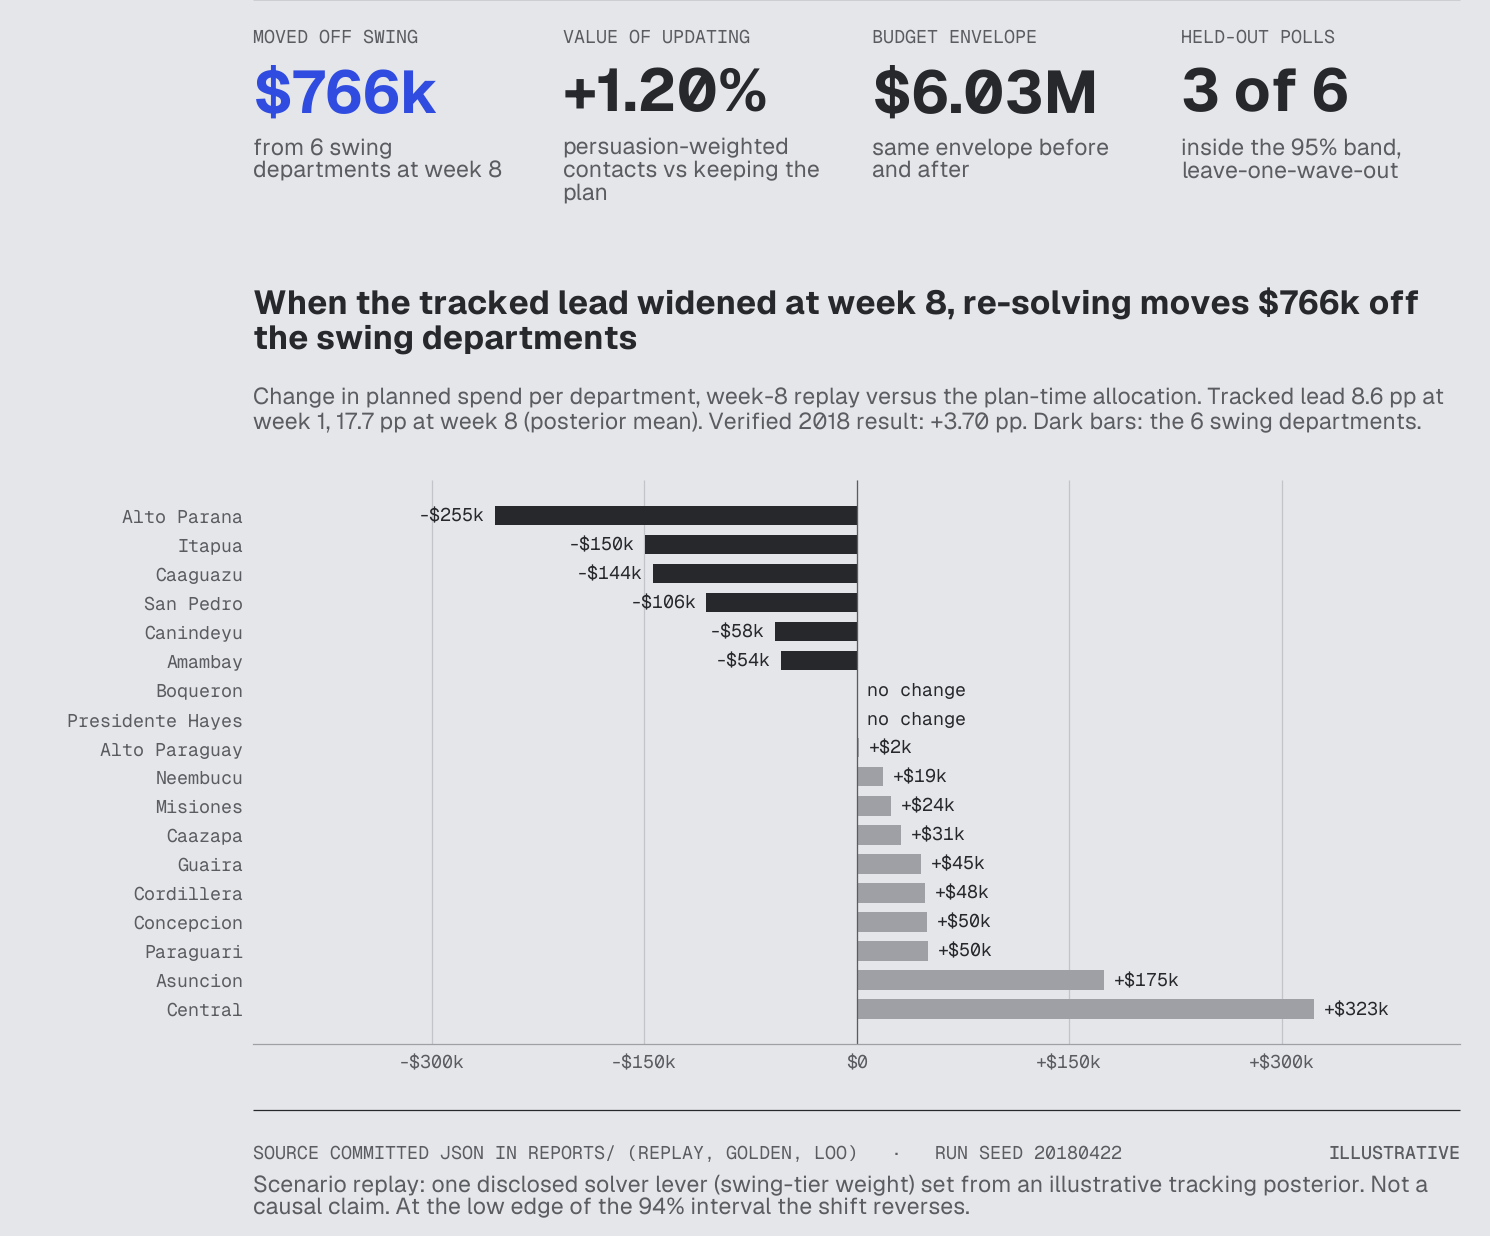
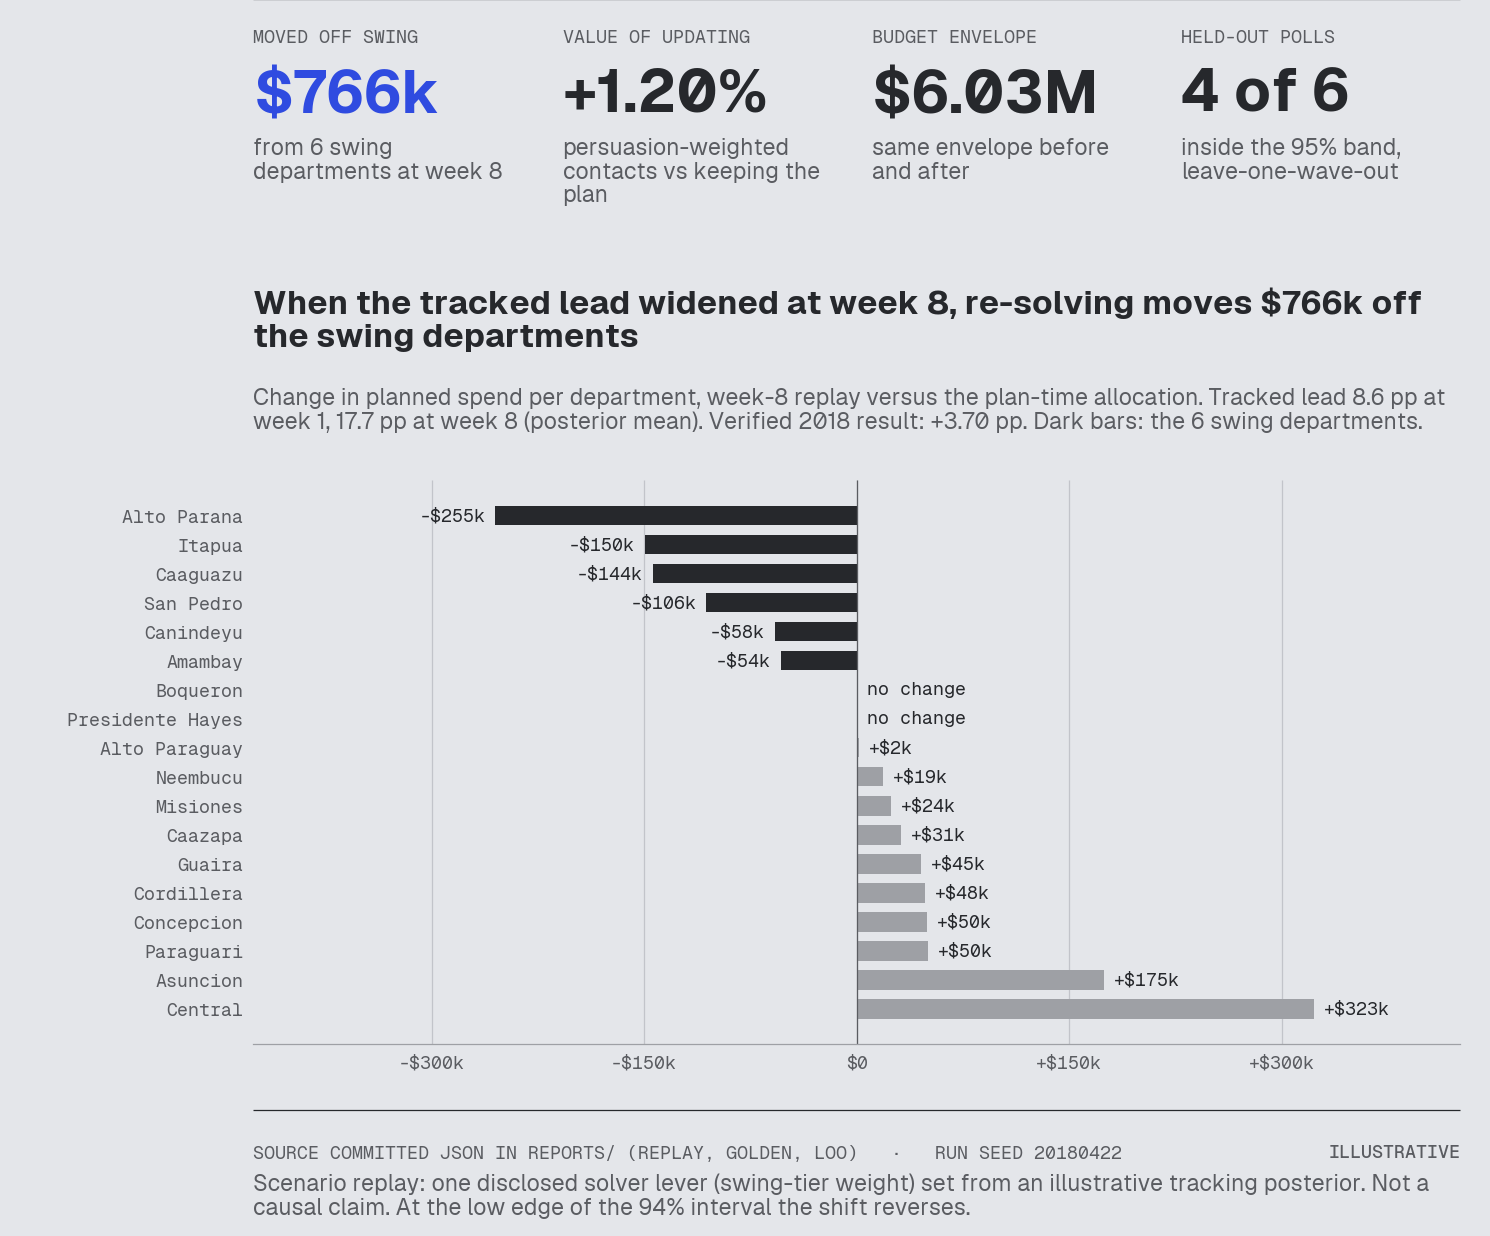
Align repo text with full-NUTS walk-forward result (4/6 at 95%)

diff --git a/README.de-AT.md b/README.de-AT.md
@@ -20,7 +20,7 @@
 
 Zu Beginn des Jahres 2018 standen einer Kampagne nur acht öffentliche Umfragen, Zensusaggregate und ein festes Budget zur Verfügung. **Wie sollte sie den Wahlkampf beobachten, das Geld landesweit verteilen und offenlegen, was bekannt ist?** Dieses Projekt rekonstruiert die paraguayische Präsidentschaftswahl 2018 mit drei miteinander verbundenen Bausteinen der Entscheidungsanalyse. Es beantwortet diese Frage durchgängig. Verifiziertes Ergebnis: Kandidat A (Abdo) gewann mit **+3,70 Prozentpunkten** (46,43 % gegenüber 42,73 %) bei einer Wahlbeteiligung von **61,25 %** (TSJE, die Wahlbehörde). Ein Prozentpunkt ist ein pp.
 
-<p align="center"><img src="reports/decision/decision_kpi_panel.png" alt="Entscheidungsübersicht: vier Kennzahlen (766.000 US-Dollar aus umkämpften Departamentos verschoben, +1,20 % Wert der Aktualisierung, Budgetrahmen 6,03 Mio. US-Dollar, 3 von 6 zurückgehaltenen Umfragen innerhalb des 95-%-Bands) über einem Balkendiagramm der geplanten Ausgabenänderung je Departamento in Woche 8; die sechs umkämpften Departamentos verlieren jeweils zwischen 54.000 und 255.000 US-Dollar, während Central 323.000 US-Dollar und Asunción 175.000 US-Dollar hinzugewinnen" width="100%" /></p>
+<p align="center"><img src="reports/decision/decision_kpi_panel.png" alt="Entscheidungsübersicht: vier Kennzahlen (766.000 US-Dollar aus umkämpften Departamentos verschoben, +1,20 % Wert der Aktualisierung, Budgetrahmen 6,03 Mio. US-Dollar, 4 von 6 zurückgehaltenen Umfragen innerhalb des 95-%-Bands) über einem Balkendiagramm der geplanten Ausgabenänderung je Departamento in Woche 8; die sechs umkämpften Departamentos verlieren jeweils zwischen 54.000 und 255.000 US-Dollar, während Central 323.000 US-Dollar und Asunción 175.000 US-Dollar hinzugewinnen" width="100%" /></p>
 
 *Die Entscheidung, die dieses System unterstützt: Der beobachtete Vorsprung stieg bis Woche 8 von 8,6 auf 17,7 pp. Eine Wiederholung, die die Verteilung nach einer manuellen Gewichtsänderung bei demselben Budget von 6,03 Mio. US-Dollar neu berechnet, verschiebt **766.000 US-Dollar aus den sechs umkämpften Departamentos** in Hochburgen und Oppositionsgebiete. Das entspricht +1,20 % mehr nach Überzeugungskraft gewichteten Kontakten als bei Beibehaltung des Plans. Ein solcher Kontakt ist ein erreichbarer Kontakt, multipliziert mit einem Gewicht, das die Wettbewerbsintensität des Departamentos abbildet. Das Ergebnis ist eine **ILLUSTRATIVE** Szenario-Wiederholung mit einem offengelegten Solver-Hebel, keine Kausalaussage. Am pessimistischen Rand des 94-%-Intervalls kehrt sich die Verschiebung um. Details: [Fallstudie, Wiederholung für Woche 8](reports/CASE_STUDY.md#a-worked-decision-week-8-replay). Das Skript `scripts/generate_decision_kpi_panel.py` erzeugt die Übersicht ausschließlich aus versionierten Ergebnissen.*
 
@@ -94,10 +94,10 @@ Fallbeschreibung: [`reports/CASE_STUDY.md`](reports/CASE_STUDY.md). Numerische S
 | Umfang des Produktionslaufs | **50.000** Wähler (Designreferenz: 4,26 Mio.) |
 | Rekonstruktionszeitraum | **14 Wochen** (2018-W01..W14); Wahlkampfumfang: 18 Wochen, 14 ISO-Wochen mit operativen Daten |
 
-### 3 von 6 zurückgehaltenen Umfragen lagen innerhalb des 95-%-Bands
+### 4 von 6 zurückgehaltenen Umfragen lagen innerhalb des 95-%-Bands
 
 Der Test lässt jeweils eine Welle der acht realen Umfragen aus dem Jahr 2018 weg. Danach wird das Tracking-Modell jeweils neu angepasst, wobei das tatsächliche Wahlergebnis ausgeschlossen bleibt (der Ausschluss ist nachweisbar; siehe die Korrektur des Prognose-Labels in der [Legende](#legende)).
-Das 95-%-Unsicherheitsband enthielt die zurückgehaltene Umfrage in **3 von 6** getesteten Wellen (Intervallabdeckung 50 %, exaktes binomiales 95-%-KI [0,12; 0,88]; Brier-Score 0,31 bei der Vorzeichenaufgabe; versioniertes Artefakt mit `MC_FAST=1`). Dies ist die *erste echte Out-of-sample-Prüfung* des Projekts. Der Bericht beschönigt das Ergebnis nicht. Bei nur **acht Umfragen** sind die Intervalle breit. Die Stichprobe ist viel zu klein, um Prognosefähigkeit zu behaupten. Details:
+Das 95-%-Unsicherheitsband enthielt die zurückgehaltene Umfrage in **4 von 6** getesteten Wellen (Intervallabdeckung 67 %, exaktes binomiales 95-%-KI [0,22; 0,96]; 80-%-Abdeckung 3 von 6 = 50 %, KI [0,12; 0,88]; Brier-Score 0,3225 und Log-Loss 1,1184 bei der Vorzeichenaufgabe; versioniertes Artefakt aus einem vollständigen NUTS-Lauf, `MC_FAST` nicht gesetzt). Das frühere Artefakt stammte aus dem schnellen Pfad mit `MC_FAST=1` (3 von 6; Brier 0,3139; Log-Loss 1,0363). Zwischen beiden Läufen hat sich nur eine Welle verschoben. Sechs Wellen sind zu wenig, um das als Verbesserung zu lesen. Dies ist die *erste echte Out-of-sample-Prüfung* des Projekts. Der Bericht beschönigt das Ergebnis nicht. Bei nur **acht Umfragen** sind die Intervalle breit. Die Stichprobe ist viel zu klein, um Prognosefähigkeit zu behaupten. Details:
 [`reports/module_c/walk_forward_loo_report.md`](reports/module_c/walk_forward_loo_report.md).
 
 ### Solver-Vergleich (keine Kausalaussage)

diff --git a/README.pt-BR.md b/README.pt-BR.md
@@ -20,7 +20,7 @@
 
 No início de 2018, uma campanha teria acesso a apenas oito pesquisas públicas, agregados censitários e um orçamento fixo. **Como deveria acompanhar a disputa, distribuir o dinheiro pelo país e ser transparente sobre o que sabe?** Este projeto reconstrói a eleição presidencial paraguaia de 2018 como três componentes conectados de análise decisória. Ele responde à pergunta de ponta a ponta. Resultado verificado: o candidato A (Abdo) venceu por **+3,70 pp** (46,43% contra 42,73%), com comparecimento de **61,25%** (TSJE, a autoridade eleitoral). Um pp é um ponto percentual.
 
-<p align="center"><img src="reports/decision/decision_kpi_panel.png" alt="Painel de decisão: quatro KPIs (US$ 766 mil retirados dos departamentos competitivos, +1,20% de valor da atualização, orçamento de US$ 6,03 milhões, 3 de 6 pesquisas retidas dentro da faixa de 95%) acima de um gráfico de barras da mudança planejada de gastos por departamento na semana 8; os seis departamentos competitivos perdem entre US$ 54 mil e US$ 255 mil cada, enquanto Central ganha US$ 323 mil e Assunção, US$ 175 mil" width="100%" /></p>
+<p align="center"><img src="reports/decision/decision_kpi_panel.png" alt="Painel de decisão: quatro KPIs (US$ 766 mil retirados dos departamentos competitivos, +1,20% de valor da atualização, orçamento de US$ 6,03 milhões, 4 de 6 pesquisas retidas dentro da faixa de 95%) acima de um gráfico de barras da mudança planejada de gastos por departamento na semana 8; os seis departamentos competitivos perdem entre US$ 54 mil e US$ 255 mil cada, enquanto Central ganha US$ 323 mil e Assunção, US$ 175 mil" width="100%" /></p>
 
 *Esta é a decisão que o sistema apoia: a vantagem monitorada aumentou de 8,6 pp para 17,7 pp na semana 8. Uma reprodução que resolve novamente a alocação após uma atualização manual dos pesos, mantendo o mesmo orçamento de US$ 6,03 milhões, desloca **US$ 766 mil dos seis departamentos competitivos** para redutos e departamentos de oposição. Isso representa +1,20% em contatos ponderados por persuasão em relação a manter o plano. Um contato ponderado por persuasão é um contato alcançável ajustado por um peso que reflete o grau de disputa do departamento. O resultado é uma reprodução de cenário **ILUSTRATIVA**, com uma alavanca do solver explicitada, e não uma alegação causal. No limite pessimista do intervalo de 94%, a mudança se inverte. Detalhes: [estudo de caso, reprodução da semana 8](reports/CASE_STUDY.md#a-worked-decision-week-8-replay). O script `scripts/generate_decision_kpi_panel.py` gera o painel apenas a partir dos resultados versionados no repositório.*
 
@@ -94,10 +94,10 @@ Narrativa do caso: [`reports/CASE_STUDY.md`](reports/CASE_STUDY.md). SSOT numér
 | Escala da execução de produção | **50.000** eleitores (referência de projeto: 4,26 milhões) |
 | Janela da reconstrução | **14 semanas** (2018-W01..W14); escopo de campanha de 18 semanas, 14 semanas ISO de dados operacionais |
 
-### 3 de 6 pesquisas retidas ficaram dentro da faixa de 95%
+### 4 de 6 pesquisas retidas ficaram dentro da faixa de 95%
 
 O teste retira uma onda por vez das oito pesquisas reais de 2018. Em cada rodada, o modelo de acompanhamento é ajustado novamente sem o resultado eleitoral real (exclusão comprovada; consulte a correção dos rótulos de previsão na [Legenda](#legenda)).
-A faixa de incerteza de 95% conteve a pesquisa retida em **3 de 6** ondas testadas (cobertura de intervalo de 50%, IC binomial exato de 95% [0,12; 0,88]; Brier 0,31 na tarefa de sinal; artefato versionado com `MC_FAST=1`). Esta é a *primeira verificação genuína fora da amostra* do projeto. O relatório não exagera o resultado. Com apenas **oito pesquisas**, os intervalos são amplos. A amostra é pequena demais para alegar capacidade preditiva. Detalhes:
+A faixa de incerteza de 95% conteve a pesquisa retida em **4 de 6** ondas testadas (cobertura de intervalo de 67%, IC binomial exato de 95% [0,22; 0,96]; cobertura de 80%: 3 de 6 = 50%, IC [0,12; 0,88]; Brier 0,3225 e log loss 1,1184 na tarefa de sinal; artefato versionado de uma execução NUTS completa, `MC_FAST` não definido). O artefato anterior vinha do caminho rápido com `MC_FAST=1` (3 de 6; Brier 0,3139; log loss 1,0363). Entre as duas execuções, apenas uma onda mudou. Seis ondas são poucas demais para ler isso como melhoria. Esta é a *primeira verificação genuína fora da amostra* do projeto. O relatório não exagera o resultado. Com apenas **oito pesquisas**, os intervalos são amplos. A amostra é pequena demais para alegar capacidade preditiva. Detalhes:
 [`reports/module_c/walk_forward_loo_report.md`](reports/module_c/walk_forward_loo_report.md).
 
 ### Comparação do solver (não é uma alegação causal)

diff --git a/README.md b/README.md
@@ -20,7 +20,7 @@
 
 A campaign in early 2018 could see only eight public polls, census aggregates, and a fixed budget. **How should it track the race, split the money across the country, and stay honest about what it knows?** This project reconstructs the 2018 Paraguay presidential election as three connected decision-analytics parts. It answers that question end to end. The verified result: Candidate A (Abdo) won by **+3.70 pp** (46.43% vs 42.73%) on **61.25%** turnout (TSJE, the electoral court). One pp is one percentage point.
 
-<p align="centre"><img src="reports/decision/decision_kpi_panel.png" alt="Decision panel: four KPIs ($766k moved off swing departments, +1.20% value of updating, $6.03M budget envelope, 3 of 6 held-out polls inside the 95% band) above a bar chart of the change in planned spend per department at week 8; the six swing departments lose between $54k and $255k each, while Central gains $323k and Asuncion $175k" width="100%" /></p>
+<p align="centre"><img src="reports/decision/decision_kpi_panel.png" alt="Decision panel: four KPIs ($766k moved off swing departments, +1.20% value of updating, $6.03M budget envelope, 4 of 6 held-out polls inside the 95% band) above a bar chart of the change in planned spend per department at week 8; the six swing departments lose between $54k and $255k each, while Central gains $323k and Asuncion $175k" width="100%" /></p>
 
 *The decision this system supports: the tracked lead widened from 8.6 pp to 17.7 pp at
 week 8. A replay that re-solves the allocation after a manual weight update, on the same $6.03M envelope, moves **$766k off the six swing
@@ -108,13 +108,16 @@ Case narrative: [`reports/CASE_STUDY.md`](reports/CASE_STUDY.md). Numeric SSOT (
 | Production run scale | **50,000** voters (4.26M design reference) |
 | Reconstruction window | **14 weeks** (2018-W01..W14); 18-week campaign scope, 14 ISO weeks of operational data |
 
-### 3 of 6 held-out polls fell inside the 95% band
+### 4 of 6 held-out polls fell inside the 95% band
 
 The test leaves one wave out at a time on the eight real 2018 polls. Each time, the tracking
 model is refitted with the actual election result held out (provably excluded; see the forecast-label fix in the [Legend](#legend)).
-The 95% uncertainty band caught the held-out poll in **3 of 6** tested waves (95% interval coverage
-50%, exact binomial 95% CI [0.12, 0.88]; Brier 0.31 on the sign task; `MC_FAST=1` committed
-artifact). This is the project's
+The 95% uncertainty band caught the held-out poll in **4 of 6** tested waves (95% interval coverage
+67%, exact binomial 95% CI [0.22, 0.96]; 80% interval coverage 3 of 6 = 50%, CI [0.12, 0.88];
+Brier 0.3225 and log loss 1.1184 on the sign task; committed artifact from a full NUTS run,
+`MC_FAST` unset). The earlier committed artifact came from the `MC_FAST=1` fast path (3 of 6;
+Brier 0.3139; log loss 1.0363). Only one wave moved between the two runs. Six waves are too few
+to read that as an improvement: the two results are statistically indistinguishable. This is the project's
 *first true out-of-sample check*. The report does not flatter it. With only
 **eight polls** the intervals are wide. The sample is far too small to claim forecasting
 skill. Detail:

diff --git a/docs/lessons-learned.md b/docs/lessons-learned.md
@@ -8,7 +8,7 @@ Evaluation: [economic-evaluation.md](economic-evaluation.md).
 |---|---|---|---|
 | Effort | 320 h central (160 to 480 h), owner scope estimate | Unmeasured; no time log. Commits fall on 38 days from 2026-05-07 to 2026-10-29 (144 h by commit days × 4 h) | `git log origin/main`; cost basis v1.2 |
 | Total cost | €17,280 central | Unmeasured; no campaign loaded real data | same |
-| Technical performance | Re-plans that improve the split without chasing poll noise | Week-8 replay moves $766k and adds 1.20 % persuasion-weighted contacts on synthetic voters (ILLUSTRATIVE); 3 of 6 held-out polls inside the 95 % band | `reports/CASE_STUDY.md`, `README.md` |
+| Technical performance | Re-plans that improve the split without chasing poll noise | Week-8 replay moves $766k and adds 1.20 % persuasion-weighted contacts on synthetic voters (ILLUSTRATIVE); 4 of 6 held-out polls inside the 95 % band | `reports/CASE_STUDY.md`, `README.md` |
 | Adoption | Inside the scenario probabilities | No campaign use recorded | `README.md` (illustrative replay) |
 | Operational outcome | 1.3 % of the actionable budget, as delivery gained or waste avoided; budget 4 to 5.5 million (owner's judgement) | Unmeasured | none |
 | Attributable value | €62k expected at the midpoint (€52k to €72k) | Unmeasured; technical validation is not realised return | none |

diff --git a/reports/VALIDATION.md b/reports/VALIDATION.md
@@ -32,7 +32,7 @@ Department participation raking aligns aggregates to **61.25%** national anchor.
 | MC B→C handshake | alloc contacts > 0 | F-040 |
 | MCMC divergences | 0 on full run (v0.4 non-centered) | enforced: slow-lane tests fail on any divergence |
 | Walk-forward coverage on fixture | sparse | not claimed as external validation |
-| Leave-one-wave-out walk-forward | committed report | [`walk_forward_loo_report.md`](module_c/walk_forward_loo_report.md) · Brier 0.31 · 95% coverage 3/6 = 50%, exact binomial 95% CI [0.12, 0.88] (n=6 holdouts, MC_FAST; no power to detect miscalibration) |
+| Leave-one-wave-out walk-forward | committed report | [`walk_forward_loo_report.md`](module_c/walk_forward_loo_report.md) · Brier 0.3225 · 95% coverage 4/6 = 67%, exact binomial 95% CI [0.22, 0.96]; 80% coverage 3/6 = 50%, CI [0.12, 0.88] (n=6 holdouts, full NUTS, MC_FAST unset; one wave moved versus the earlier MC_FAST=1 artifact, 3/6, so this is not a meaningful improvement; no power to detect miscalibration) |
 
 ## Pipeline integration
 

diff --git a/governance/CHANGELOG.md b/governance/CHANGELOG.md
@@ -6,6 +6,16 @@ All notable changes to this project are documented here. This file follows [Keep
 
 ## [Unreleased]
 
+### Walk-forward report regenerated with full NUTS (2026-11-04)
+
+- `reports/module_c/walk_forward_loo_report.md` and `_metrics.json` regenerated without
+  `MC_FAST` (4 chains x 1000 draws, 1000 tune, target_accept 0.99, seed 42). 95% coverage
+  4/6 = 67% (exact binomial CI [0.22, 0.96]; was 3/6), 80% coverage 3/6 = 50% (CI [0.12, 0.88];
+  was 2/6), Brier 0.3225 (was 0.3139), log loss 1.1184 (was 1.0363). One wave moved; with six
+  holdouts this is not a meaningful improvement. Model, priors, sampler settings and data unchanged.
+- README (en, de-AT, pt-BR), `reports/VALIDATION.md`, `docs/lessons-learned.md` and the decision
+  KPI panel (`reports/decision/decision_kpi_panel.png`, re-rendered) now state the new result.
+
 ### Improvement-plan closure + status Complete (F-083..F-090, 2026-10-11)
 
 - **Eight findings filed and closed**, one PR each (#199–#206): slow MCMC lane
